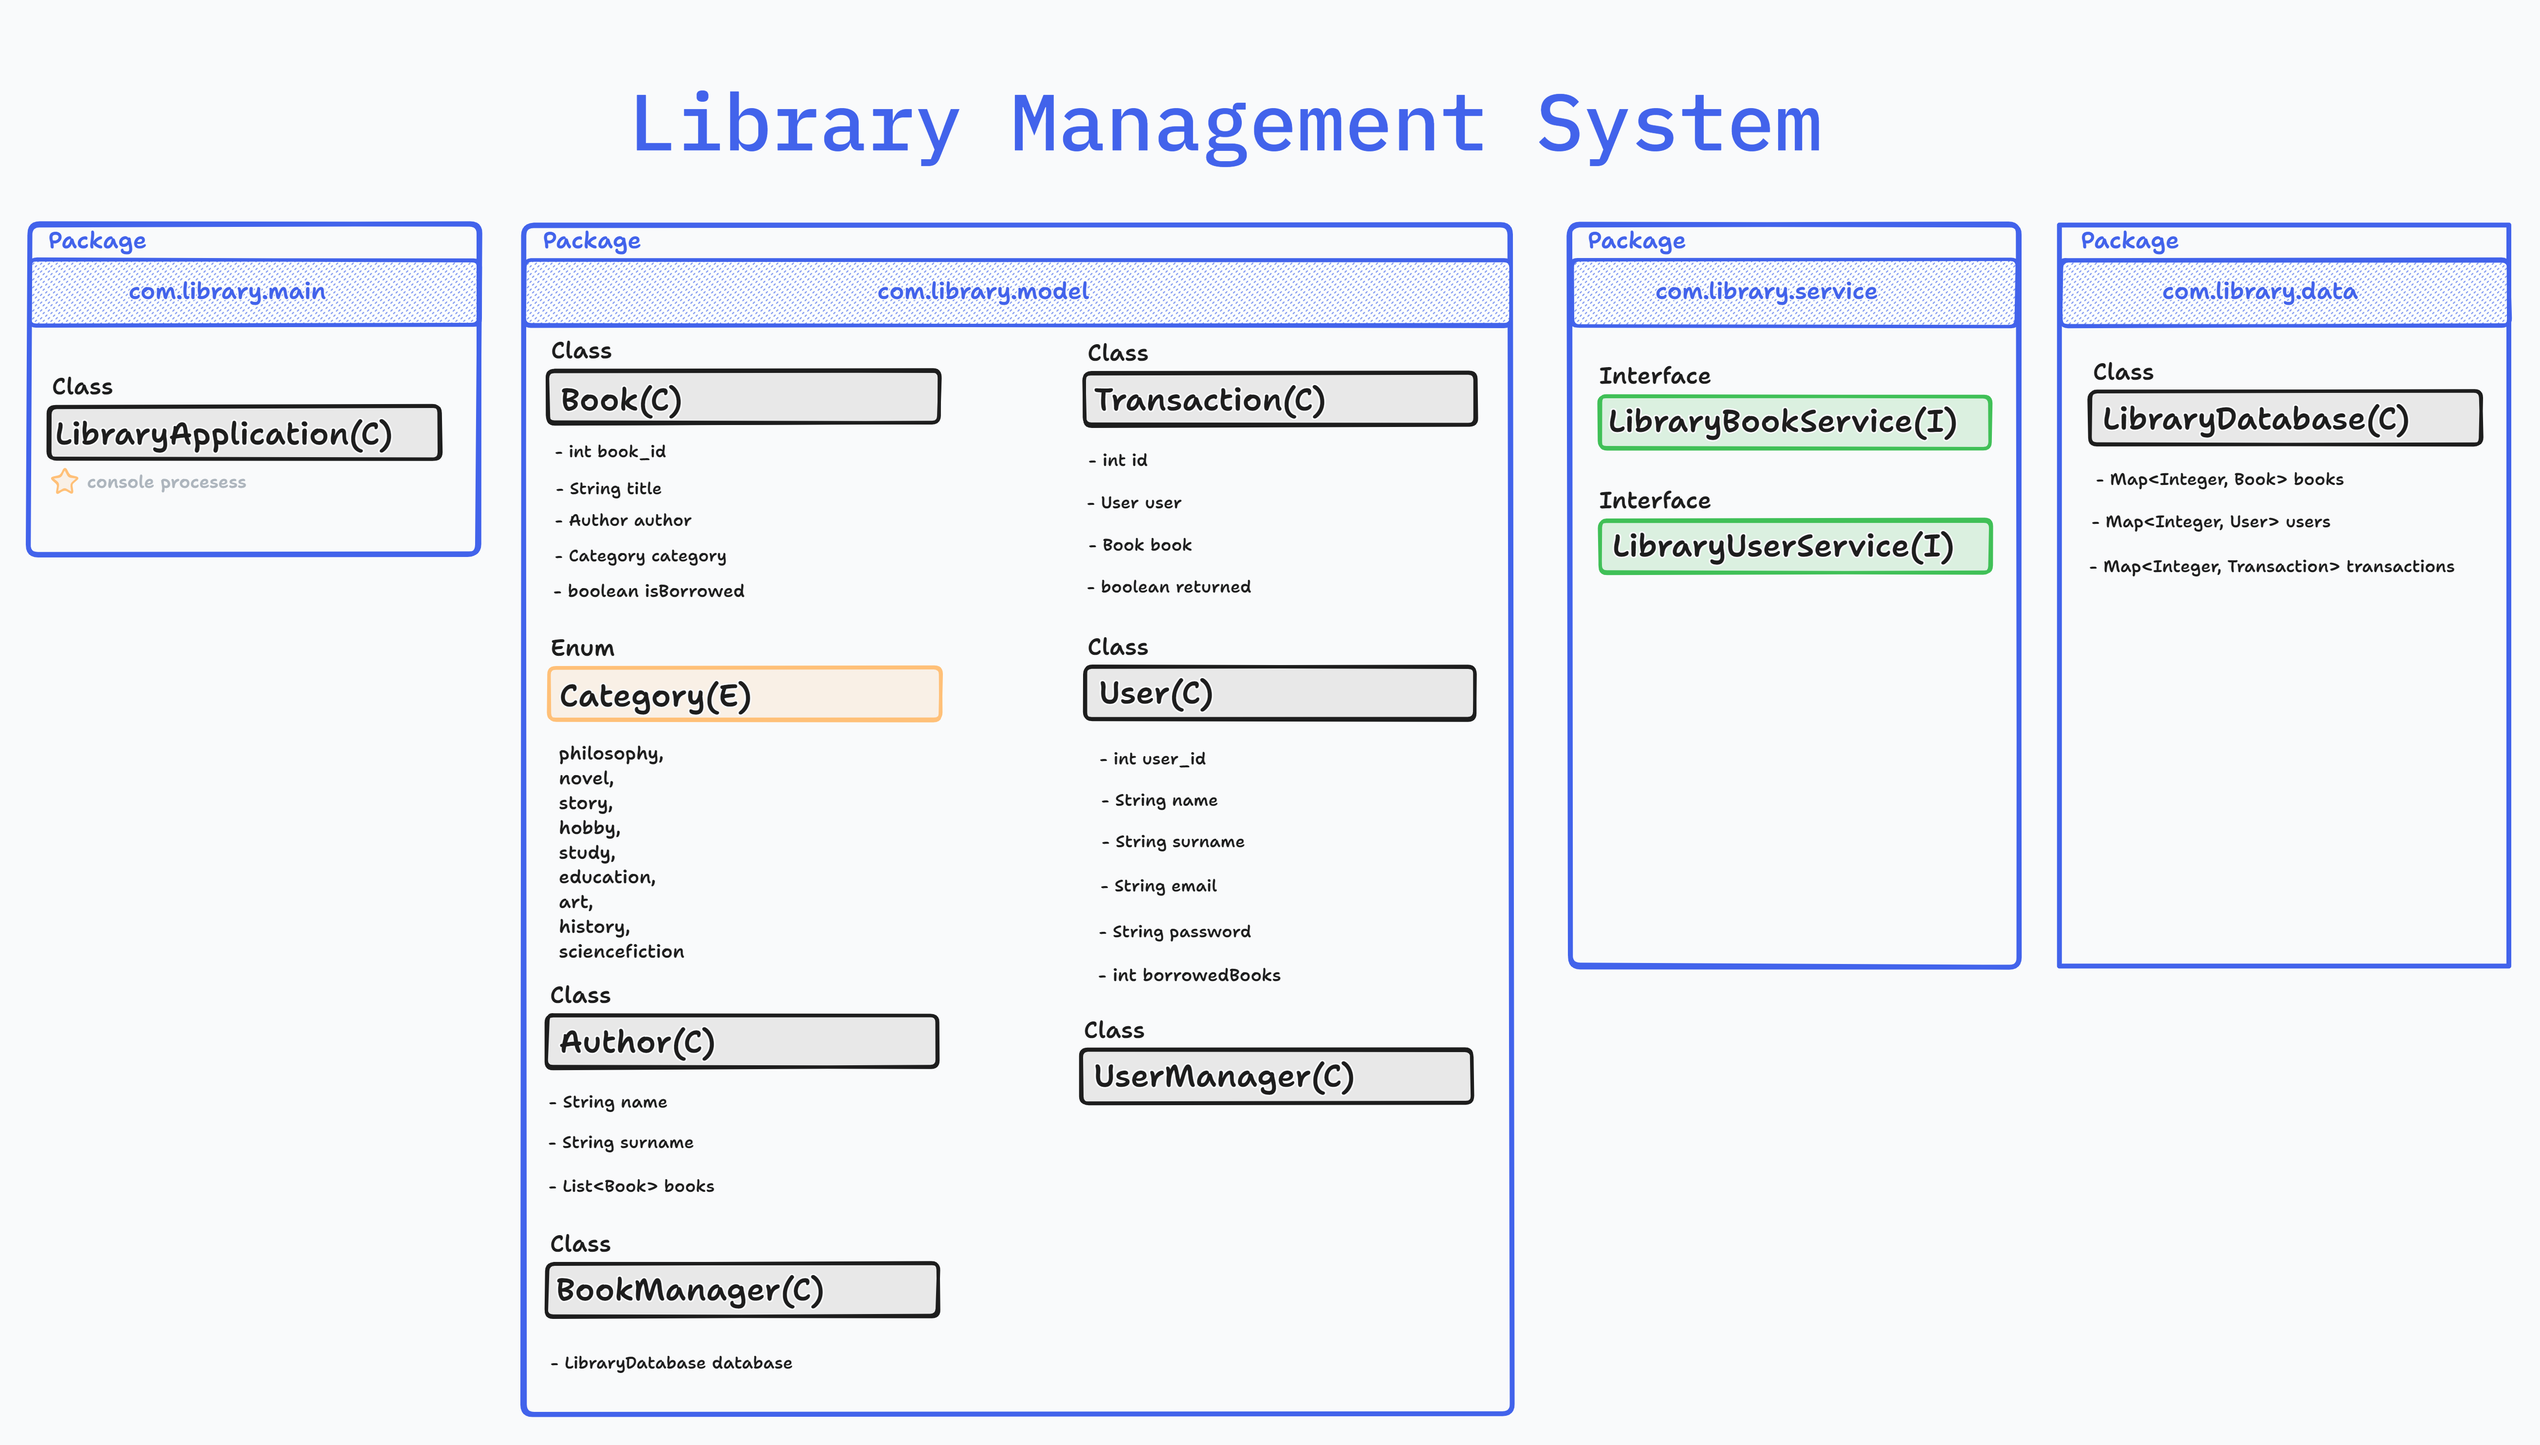
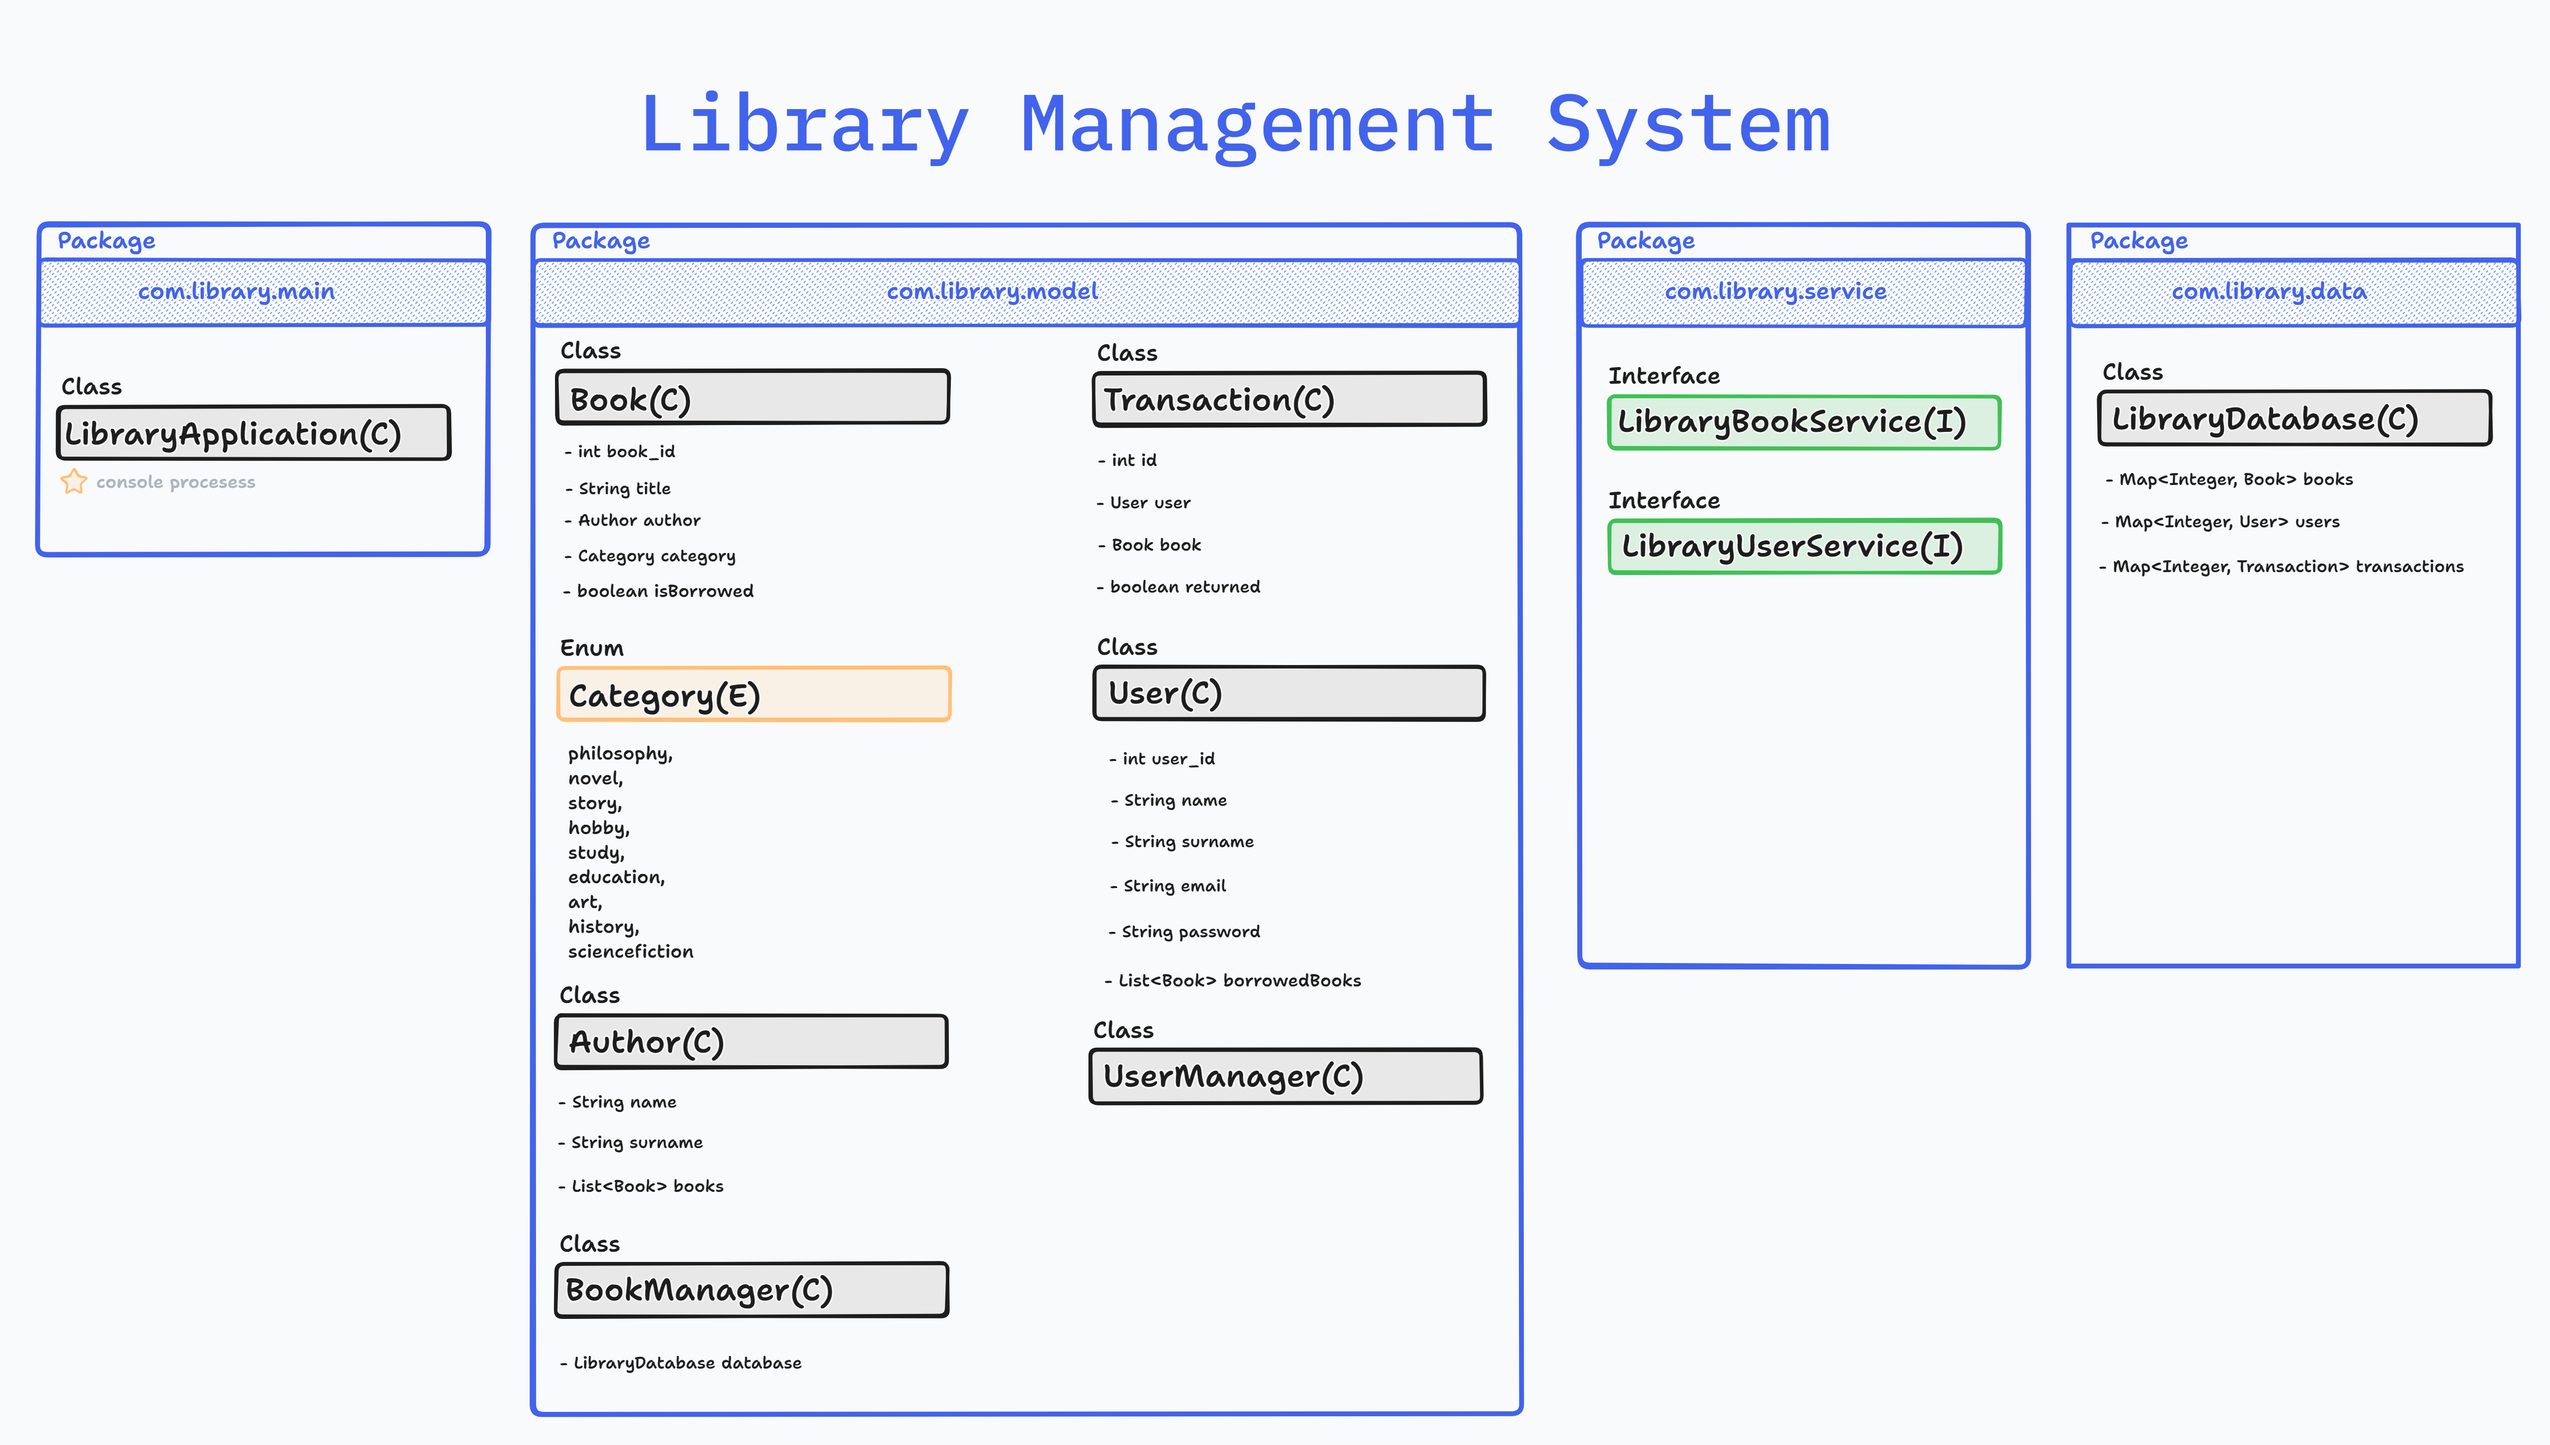
some methods added.

diff --git a/src/com/library/data/LibraryDatabase.java b/src/com/library/data/LibraryDatabase.java
@@ -1,11 +1,11 @@
 package com.library.data;
 
-import com.library.model.Book;
-import com.library.model.Transaction;
-import com.library.model.User;
+import com.library.model.*;
 
 import java.util.HashMap;
+import java.util.List;
 import java.util.Map;
+import java.util.stream.Collectors;
 
 
 public class LibraryDatabase {
@@ -20,7 +20,7 @@ public class LibraryDatabase {
         transactions = new HashMap<>();
     }
 
-    /*public void addBook(Book book) {
+    public void addBook(Book book) {
         books.put(book.getBook_id(), book);
     }
 
@@ -29,19 +29,17 @@ public class LibraryDatabase {
     }
 
     public List<Book> getBooksByTitle(String title) {
-        return books.values().stream()
-                .filter(book -> book.getTitle().equalsIgnoreCase(title))
-                .collect(Collectors.toList());
+        return books.values().stream() // tüm kitap nesnelerinin akışını oluşturur.
+                .filter(book -> book.getTitle().equals(title)).collect(Collectors.toList()); // filtrelenen kitap nesnelerini bir liste olarak toplar ve döndürür.
     }
 
+
     public List<Book> getBooksByAuthor(String authorName) {
-        return books.values().stream()
-                .filter(book -> book.getAuthor().getName().equalsIgnoreCase(authorName))
-                .collect(Collectors.toList());
+        return books.values().stream().filter(book -> book.getAuthor().equals(authorName)).collect(Collectors.toList());
     }
 
     public void updateBook(Book book) {
-        books.put(book.getId(), book);
+        books.put(book.getBook_id(), book);
     }
 
     public void deleteBook(int id) {
@@ -49,66 +47,35 @@ public class LibraryDatabase {
     }
 
     public List<Book> getBooksByCategory(Category category) {
-        return books.values().stream()
-                .filter(book -> book.getCategory().equals(category))
-                .collect(Collectors.toList());
+        return books.values().stream().filter(book -> book.getCategory().equals(category)).collect(Collectors.toList());
     }
 
     public List<Book> getBooksByAuthor(Author author) {
-        return books.values().stream()
-                .filter(book -> book.getAuthor().equals(author))
-                .collect(Collectors.toList());
+        return books.values().stream().filter(book -> book.getAuthor().equals(author)).collect(Collectors.toList());
     }
 
-    public void borrowBook(User user, Book book) {
-        Transaction transaction = new Transaction(user, book);
+    public void borrowBook(User user, Book book) { // ?? tekrar bak
+
+        int newTransactionId = generateNewTransactionId();
+        Transaction transaction = new Transaction(newTransactionId, user, book, false);
         transactions.put(transaction.getId(), transaction);
         user.getBorrowedBooks().add(book);
-        book.setBorrowedBy(user);
+        books.put(transaction.getId(), book);
+
     }
 
-    public void returnBook(User user, Book book) {
-        Transaction transaction = transactions.get(book.getId());
+    public void returnBook(User user, Book book) { // ?? tekrar bak
+        int newTransactionId = generateNewTransactionId();
+        Transaction transaction = transactions.get(book.getBook_id());
         transaction.setReturned(true);
         user.getBorrowedBooks().remove(book);
-        book.setBorrowedBy(null);
     }
 
-    public Map<Integer, Book> getBooks() {
-        return books;
-    }
 
-    public void setBooks(Map<Integer, Book> books) {
-        this.books = books;
-    }
-
-    public Map<Integer, User> getUsers() {
-        return users;
-    }
-
-    public void setUsers(Map<Integer, User> users) {
-        this.users = users;
-    }
-
-    public Map<Integer, Transaction> getTransactions() {
-        return transactions;
-    }
-
-    public void setTransactions(Map<Integer, Transaction> transactions) {
-        this.transactions = transactions;
-    }
-*/
     @Override
     public String toString() {
-        return "LibraryDatabase{" +
-                "books=" + books +
-                ", users=" + users +
-                ", transactions=" + transactions +
-                '}';
+        return "LibraryDatabase{" + "books=" + books + ", users=" + users + ", transactions=" + transactions + '}';
     }
-
-
-
 
 
 }

diff --git a/src/com/library/model/BookManager.java b/src/com/library/model/BookManager.java
@@ -3,6 +3,8 @@ package com.library.model;
 import com.library.data.LibraryDatabase;
 import com.library.service.LibraryBookService;
 
+import java.util.List;
+
 public class BookManager implements LibraryBookService {
     private LibraryDatabase database;
 
@@ -21,60 +23,48 @@ public class BookManager implements LibraryBookService {
 
     @Override
     public List<Book> getBooksByTitle(String title) {
-        return database.getBooksByTitle(title);
+        return null;
     }
 
     @Override
     public List<Book> getBooksByAuthor(String authorName) {
-        return database.getBooksByAuthor(authorName);
+        return null;
     }
 
     @Override
     public void updateBook(Book book) {
-        database.updateBook(book);
+
     }
 
     @Override
     public void deleteBook(int id) {
-        database.deleteBook(id);
+
     }
 
     @Override
     public List<Book> getBooksByCategory(Category category) {
-        return database.getBooksByCategory(category);
+        return null;
     }
 
     @Override
     public List<Book> getBooksByAuthor(Author author) {
-        return database.getBooksByAuthor(author);
+        return null;
     }
 
     @Override
     public void borrowBook(User user, Book book) {
-        // Check if user can borrow more books
-        if (user.getBorrowedBooks().size() < 5) {
-            // Check if the book is available
-            if (book.getBorrowedBy() == null) {
-                database.borrowBook(user, book);
-            } else {
-                System.out.println("Book is already borrowed by another user.");
-            }
-        } else {
-            System.out.println("User has reached the borrowing limit.");
-        }
+
     }
 
     @Override
     public void returnBook(User user, Book book) {
-        database.returnBook(user, book);
+
     }
 
     @Override
     public void generateInvoice(User user, Book book) {
-        // Calculate and generate the invoice
+
     }
-
-
 
 
 }

diff --git a/src/com/library/model/User.java b/src/com/library/model/User.java
@@ -1,5 +1,7 @@
 package com.library.model;
 
+import java.util.List;
+
 public class User {
 
     private int user_id;
@@ -7,9 +9,9 @@ public class User {
     private String surname;
     private String email;
     private String password;
-    private int borrowedBooks;
+    private List<Book> borrowedBooks;
 
-    public User(int user_id, String name, String surname, String email, String password, int borrowedBooks) {
+    public User(int user_id, String name, String surname, String email, String password, List<Book> borrowedBooks) {
         this.user_id = user_id;
         this.name = name;
         this.surname = surname;
@@ -59,11 +61,11 @@ public class User {
         this.password = password;
     }
 
-    public int getBorrowedBooks() {
-        return borrowedBooks;
+    public List<Book> getBorrowedBooks() {
+        return this.borrowedBooks;
     }
 
-    public void setBorrowedBooks(int borrowedBooks) {
+    public void setBorrowedBooks(List<Book> borrowedBooks) {
         this.borrowedBooks = borrowedBooks;
     }
 

diff --git a/src/com/library/model/Author.java b/src/com/library/model/Author.java
@@ -1,6 +1,7 @@
 package com.library.model;
 
 import java.util.List;
+import java.util.Objects;
 
 public class Author {
 
@@ -36,6 +37,20 @@ public class Author {
 
     public void setBooks(List<Book> books) {
         this.books = books;
+    }
+
+
+    @Override
+    public boolean equals(Object o) {
+        if (this == o) return true;
+        if (o == null || getClass() != o.getClass()) return false;
+        Author author = (Author) o;
+        return Objects.equals(name, author.name) && Objects.equals(surname, author.surname);
+    }
+
+    @Override
+    public int hashCode() {
+        return Objects.hash(name, surname);
     }
 
     @Override

diff --git a/src/com/library/model/Transaction.java b/src/com/library/model/Transaction.java
@@ -13,6 +13,8 @@ public class Transaction {
         this.returned = returned;
     }
 
+
+
     public int getId() {
         return id;
     }
